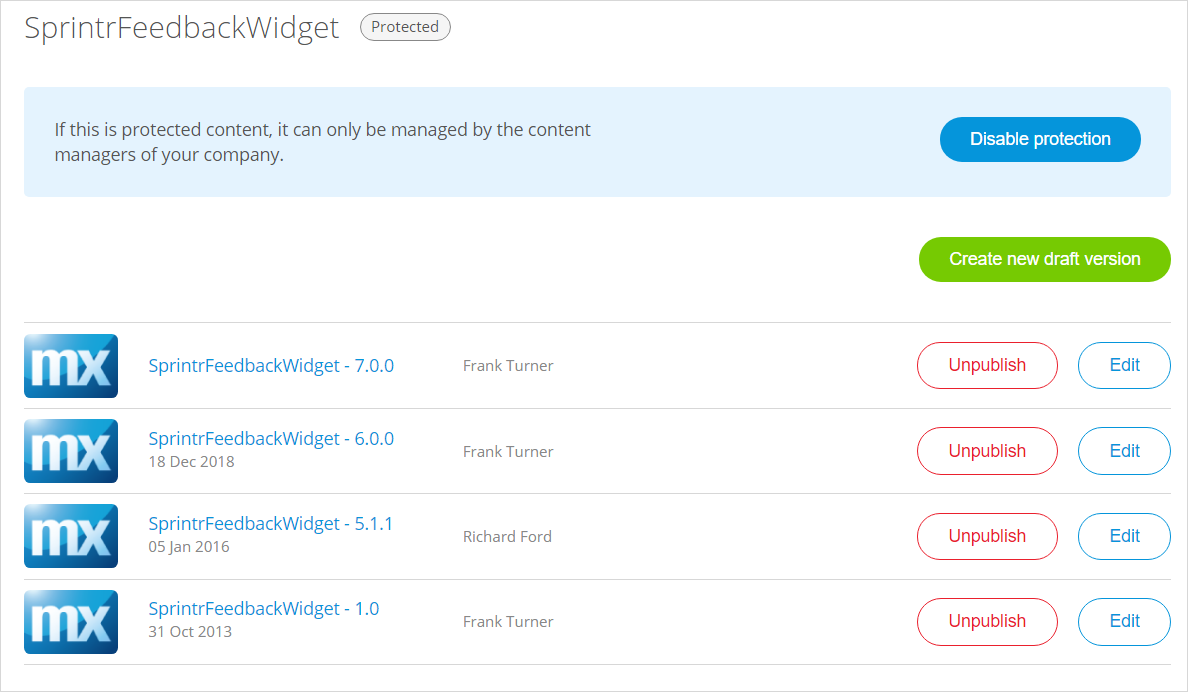
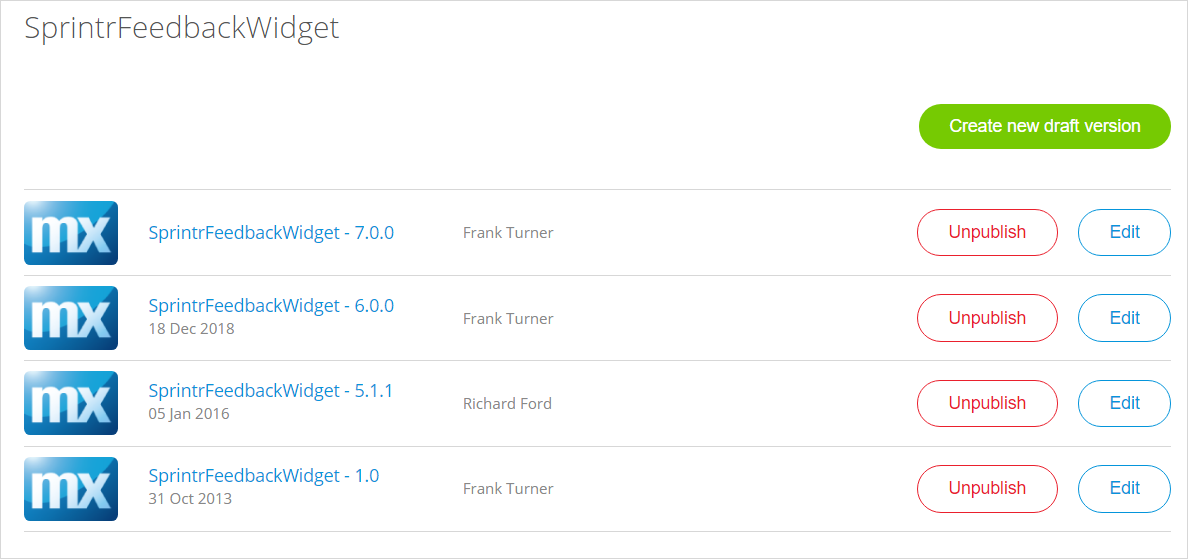
Update App Store content

diff --git a/content/developerportal/app-store/app-store-overview.md b/content/developerportal/app-store/app-store-overview.md
@@ -30,7 +30,7 @@ Category | Description
 
 To see a detail page for each category, click **View more**.
 
-## 3 Add-On Details Page {#AddonDetailsPage}
+## 3 Add-On Details Page {#details}
 
 Clicking an App Store component in a menu will bring you to the component's details page. The details page presents the sections described below.
 
@@ -77,11 +77,11 @@ The details page for each add-on and app presents the following item information
 
 	![](attachments/app-store-overview/content_detail_8.png)
 	
-*  **Group members** tab – lists the [user group members](#members) if this is a protected App Store component:
+*  **Group members** tab – lists the [user group members](#members) if this is an App Store component assigned to a [user group](#user-groups)
 
 	![](attachments/app-store-overview/content_detail_9.png)
 
-{{% todo %}}[**VERIFY NAME OF GROUP MEMBERS TAB; UPDATE SCREENSHOTS ABOVE FOR NEW TAB NAME**]{{% /todo %}}
+{{% todo %}}[**VERIFY NAME OF GROUP MEMBERS TAB ABOVE; UPDATE SCREENSHOTS FOR NEW TAB NAME ABOVE**]{{% /todo %}}
 
 ### 3.3 Additional Info Section {#additional-info}
 
@@ -132,28 +132,30 @@ The **Dashboard** page presents your App Store activity:
 
 On this page, you can see the App Store components for which you have created at least one version:
 
+{{% todo %}}[**UPDATE SCREENSHOT**]{{% /todo %}}
+
 ![](attachments/app-store-overview/my-content.png)
 
-{{% alert type="info" %}}You may see certain labels on the component:</br>
-* **Protected** – details on this label are described below via the [Enable protection](#protect) button; if the component is protected, only [user group members](#members) are able to manage it</br>
-* **Company only** – this is your company 's private App Store content (for details on how this is configured, see the [Adding New App Store Components](share-app-store-content#private-app-store) section of *How to Share App Store Content*); this content can be shared with [guests](#guests)</br>
+{{% alert type="info" %}}
+You may see the **Company only** label on a component, which means it is your company's private App Store content (for details on how this is configured, see the [Adding New App Store Components](share-app-store-content#private-app-store) section of *How to Share App Store Content*). This content can be shared with [guests](#guests).
 {{% /alert %}}
 
-Clicking **Manage** opens the management page:
+To see the component's [details](#details) page, click **View**.
+
+#### 4.2.1 Managing a Component {#manage}
+
+Click **Manage** to manage the component:
 
 ![](attachments/app-store-overview/content-management.png)
 
-{{% todo %}}[**REVIEW PAGE FOR WHAT MESSAGE SAYS AT TOP WITH "CONTENT MANAGERS"; SHOULD REVIEW ALL SCREENSHOTS FOR STYLING CHANGES**]{{% /todo %}}
+{{% todo %}}[**VERIFY "Unpublish" CONDITIONS IN REVIEW**]{{% /todo %}}
 
-On this page, you will see the following buttons (depending on your permissions):
+On this page, you will see the following buttons:
 
-{{% todo %}}[**ENABLE/DISABLE PROTECTION: GOING AWAY - CONTENT IS ONLY PROTECTED WHEN ADDED TO A GROUP; PROTECTED CONTENT IS ADDED TO CONTENT TAB**]{{% /todo %}}
-
-* <a name="protect"></a>**Enable protection**/**Disable protection** – click this to toggle the protection level for the component
-  * Enabling protection assigns the **Protected** label to the component, which means only [content managers](#cm) are able to manage it
-  * This button is only visible to Company Admins with the [Can manage Company](../company-app-roles/manage-roles#app-store-manager) permission
 * **Create new draft version** – click this to create a new draft version of the component (for details on creating a draft version, see the [Updating Existing App Store Content](share-app-store-content#updating) section of *How to Share App Store Content*)
 * **Unpublish** – click this to remove that version from the component
+	* If the component is not the protected content of a [user group](#user-groups), you can only unpublish a version that you have published yourself
+	* If the component is protected [content](#content) from a user group, a group [member](#members) can unpublish any version
 * **Edit** – click this to edit the component (for details on editing, see the [Adding New App Store Content](share-app-store-content#edit) section of *How to Share App Store Content*)
 
 ### 4.3 Drafts
@@ -170,13 +172,11 @@ Click **Delete** to delete a draft.
 
 This page contains content shared with you by other companies who have marked you as a [guest](#guests):
 
-{{% todo %}}[**ADD LINK TO GUEST**]{{% /todo %}}
-
 ![](attachments/app-store-overview/shared-with-me.png)
 
 ### 4.5 Reviews {#my-reviews}
 
-This page contains reviews of **Your content** by other users as well as **Your reviews** that you have written of other content:
+This page contains reviews of [Your content](#content) by other users as well as **Your reviews** that you have written of other content:
 
 ![](attachments/app-store-overview/your-reviews.png)
 
@@ -192,17 +192,19 @@ This page presents a history of notifications on content you have contributed to
 
 On this page, you can see all the content your company has published:
 
+{{% todo %}}[**UPDATE SCREENSHOT FOR REMOVAL OF "PROTECTED" LABEL**]{{% /todo %}}
+
 ![](attachments/app-store-overview/company-content.png)
 
-The **Manage** button is available to you for the following content:
+The **Manage** button is available to you if one of the following conditions is true:
 
-* Content you have published
-* Your company's content that is not protected
-* Your company's content that is [protected](#protect) for which you are a [user group member](#members)
+* You are the creator of the component and the component is not assigned to any [user groups](#user-groups)
+* The component is assigned to a user group, and you are a [member](#members) of that group
+* You are a Company Admin of the company that published the component
 
-{{% todo %}}[**REVIEW ABOVE FOR "PROTECTED"; UPDATE SCREENSHOT ABOVE FOR "PROTECTED" LABEL - REVIEW USES ELSEWHERE**]{{% /todo %}}
+To manage a component, click **Manage** (for more information, see the [Managing a Component](#manage) section above).
 
-For details on how to manage content, see the [My Content](#content) section above.
+To see the component's [details](#details) page, click **View**.
 
 ### 5.2 Reviews
 
@@ -210,7 +212,7 @@ This page contains reviews of **Your company's content** as well as **Your compa
 
 ![](attachments/app-store-overview/your-company-reviews.png)
 
-### 5.3 User Groups
+### 5.3 User Groups {#user-groups}
 
 You can configure user groups for various levels of access to your company's App Store. The available configuration tabs for each user group page are described in the sections below.
 
@@ -220,7 +222,7 @@ The **User Groups** menu item and page are visible to all users. However, only [
 
 #### 5.3.1 Members Tab {#members}
 
-On this tab, you can enter an email address and click **Add** to add a member to the user group. User group members can manage the content assigned to the group.
+On this tab, you can enter an email address and click **Add** to add a member to the user group. User group members can manage the [content](#content) assigned to the group.
 
 Once a member is added, you can select their permission level: **Member** or **Group Admin**. A Group Admin can manage the user group.
 
@@ -230,15 +232,15 @@ To remove a member, click **Remove** next to their name.
 
 #### 5.3.2 Guests Tab {#guests}
 
-A guest is a Mendix Platform users from outside your company who can download the selected private [Content](#content) of this group. To add a guest, enter their email address in the box and click **Add**:
+A guest is a Mendix Platform user from outside your organization who can download the selected private [Content](#content) of this group. To add a guest, enter their email address in the box and click **Add**:
 
 {{% todo %}}[**UPDATE SCREENSHOT**]{{% /todo %}}
 
-![](attachments/app-store-overview/external-downloaders.png)
+![](attachments/app-store-overview/guests.png)
 
 The guest will receive an email notifying them of access to the private content. They can then see all the private App Store content shared with them in their [Shared with Me](#shared-with-me) page.
 
-To remove a guest, click **Remove** next to their name.
+To remove a guest, click **Remove**.
 
 #### 5.3.3 Content Tab {#content}
 
@@ -246,19 +248,21 @@ On this tab, you can assign content to this user group that can only be managed 
 
 {{% todo %}}[**ADD SCREENSHOT**]{{% /todo %}}
 
-Once the component has been added, click **Manage** to manage the component. On the page that opens, you can do the following:
+![](attachments/app-store-overview/group-content.png)
 
-* **Create a new draft version** of the component (for details on how to do this, see the steps in the [Updating Existing App Store Content](#updating) section of *How to Share App Store Content*)
-* **Edit** the component (for details on how to do this, see the steps in the [Adding New App Store Content](share-app-store-content#adding) section of *How to Share App Store Content*)
-* **Unpublish** the component
+To manage a component assigned to the user group, click **Manage** (for more information, see the [Managing a Component](#manage) section above).
 
-{{% todo %}}[**ADD SCREENSHOT**]{{% /todo %}}
+To see the component's [details](#details) page, click **View**.
+
+To remove a component from the user group, click **Remove**.
+
+If you want [guests](#guests) to be able to download the component, check the **Allow guests to download** box.
 
 #### 5.3.4 Settings Tab
 
 On this tab, you can enter a **Name** and **Description** for the user group.
 
-To delete a group, a Company Admin can click **Delete.**
+To delete a group, a Company Admin can click **Delete Group**.
 
 ## 6 Read More
 
